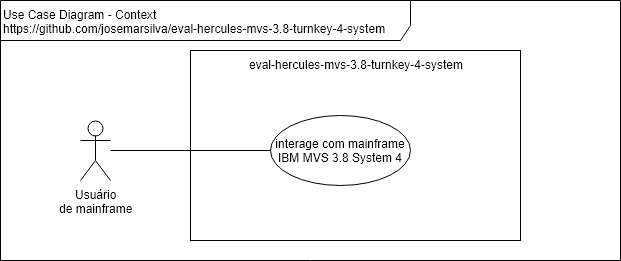
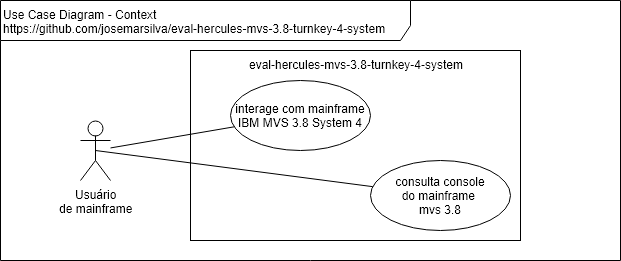
.

diff --git a/README.md b/README.md
@@ -69,6 +69,8 @@ unzip tk4-cbt.zip
 * Edite o arquivo de configuração `./tk4-v1.00-current/conf/tk4-.cnf` e faça os seguintes ajustes:
   * Procure a chave **NUMCPU** e troque o valor da chave de "1" para "2" - Resultado final: `NUMCPU ${NUMCPU:=2}`
   * Procure a chave **MAXCPU** e troque o valor da chave de "1" para "2" - Resultado final: `MAXCPU ${MAXCPU:=2}`
+  * Procure a chave **CNSLPORT** e veja a porta TCP/IP da comunicação `CNSLPORT ${CNSLPORT:=3270}`
+  * Procure a chave **HTTPPORT** e veja a porta TCP/IP da comunicação `HTTP PORT ${HTTPPORT:=8038}`
 
 * Para executar o Hercules emulador mainframe do MVS 3.8 faça
 
@@ -110,43 +112,38 @@ wget http://wotho.ethz.ch/tk4-/MVS_TK4-_v1.00_Users_Manual.pdf
 
 ```sh
 cd /opt
-unzip tk4-_v1.00_current.zip
-unzip tk4-cbt.zip
+mkdir hercules-mvs-3.8-turnkey-4-system
+cd hercules-mvs-3.8-turnkey-4-system
+unzip ../tk4-_v1.00_current.zip
+unzip ../tk4-cbt.zip
 echo
-echo No linux e necessario trocar a permissão dos arquivos binarios de execucao
+echo No linux pode ser necessario trocar a permissão dos arquivos binarios de execucao
 echo
-chmod 777 /opt/tk4-v1.00-current/mvs
-chmod 777 /opt/tk4-v1.00-current/start_herc
-chmod 777 /opt/tk4-v1.00-current/hercules/darwin
-chmod 777 /opt/tk4-v1.00-current/hercules/linux/32
-chmod 777 /opt/tk4-v1.00-current/hercules/linux/64
-chmod 777 /opt/tk4-v1.00-current/hercules/linux/arm
-chmod 777 /opt/tk4-v1.00-current/hercules/linux/arm_softfloat
-chmod 777 /opt/tk4-v1.00-current/unattended/set_console_mode
-chmod 777 /opt/tk4-v1.00-current/unattended/set_deamon_mode
 ```
 
 * Configure o modo de execução para Console, para poder interagir com a console. Por default, o modo é deamon (serviço) e você não vai conseguir interagir com a console.
 
 ```sh
-cd /opt/tk4-v1.00-current/unattended/set_console_mode
+cd /opt/hercules-mvs-3.8-turnkey-4-system/unattended
+./set_console_mode
 ```
 
 
-* Edite o arquivo de configuração `./tk4-v1.00-current/conf/tk4-.cnf` e faça os seguintes ajustes:
+* Edite o arquivo de configuração `/opt/hercules-mvs-3.8-turnkey-4-system/conf/tk4-.cnf` e faça os seguintes ajustes:
   * Procure a chave **NUMCPU** e troque o valor da chave de "1" para "2" - Resultado final: `NUMCPU ${NUMCPU:=2}`
   * Procure a chave **MAXCPU** e troque o valor da chave de "1" para "2" - Resultado final: `MAXCPU ${MAXCPU:=2}`
+  * Procure a chave **CNSLPORT** e veja a porta TCP/IP da comunicação `CNSLPORT ${CNSLPORT:=3270}`
+  * Procure a chave **HTTPPORT** e veja a porta TCP/IP da comunicação `HTTP PORT ${HTTPPORT:=8038}`
 
 * Para executar o Hercules emulador mainframe do MVS 3.8 faça
 
 ```sh
-cd /opt/tk4-_v1.00_current
+cd /opt/hercules-mvs-3.8-turnkey-4-system
 echo Executando mvs
 ./mvs
 ```
 
-
-* Para sair do Hercules emulador mainframe do MVS 3.8 faça
+* Para sair do Hercules emulador mainframe do MVS 3.8 faça `exit`
 
 ```hercules
 herc =====> exit
